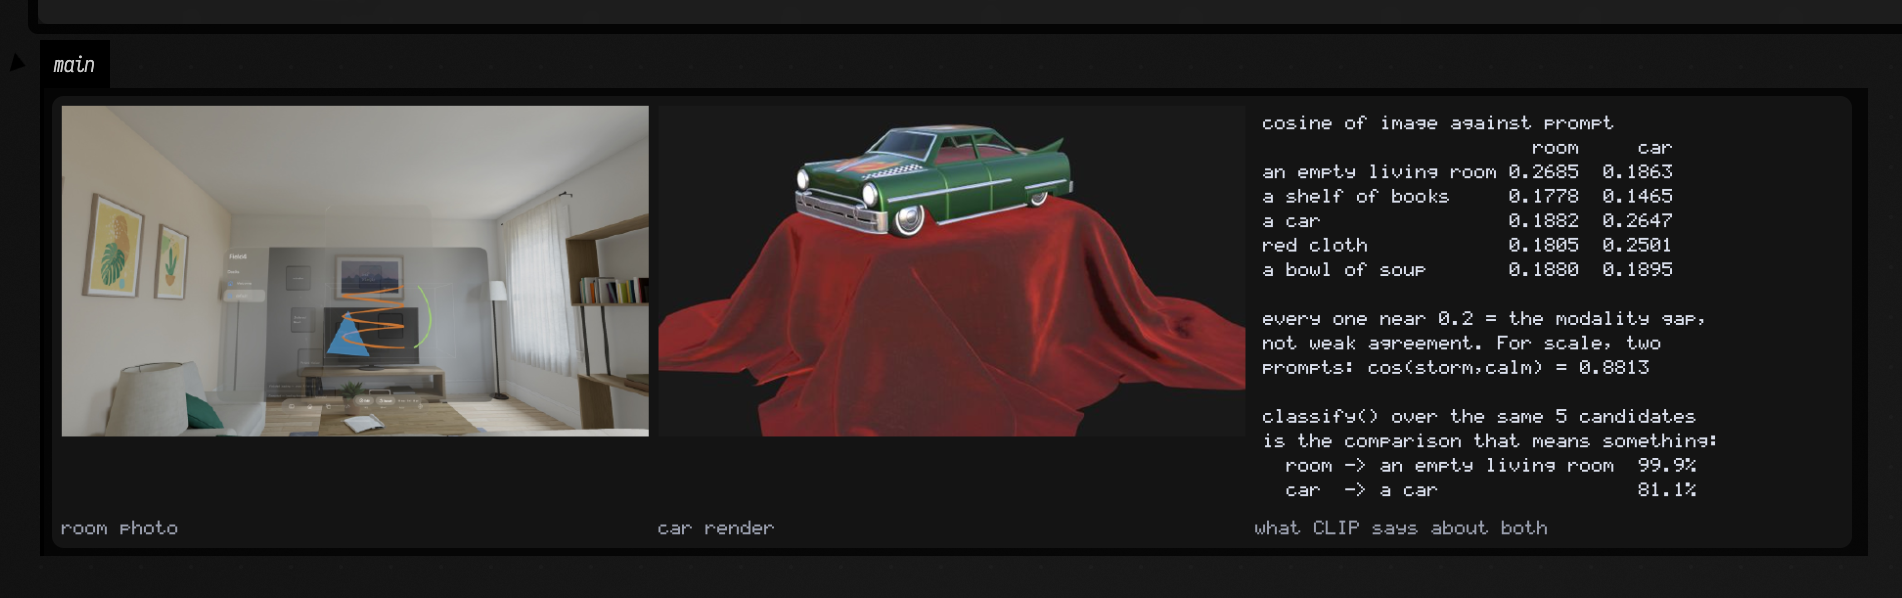
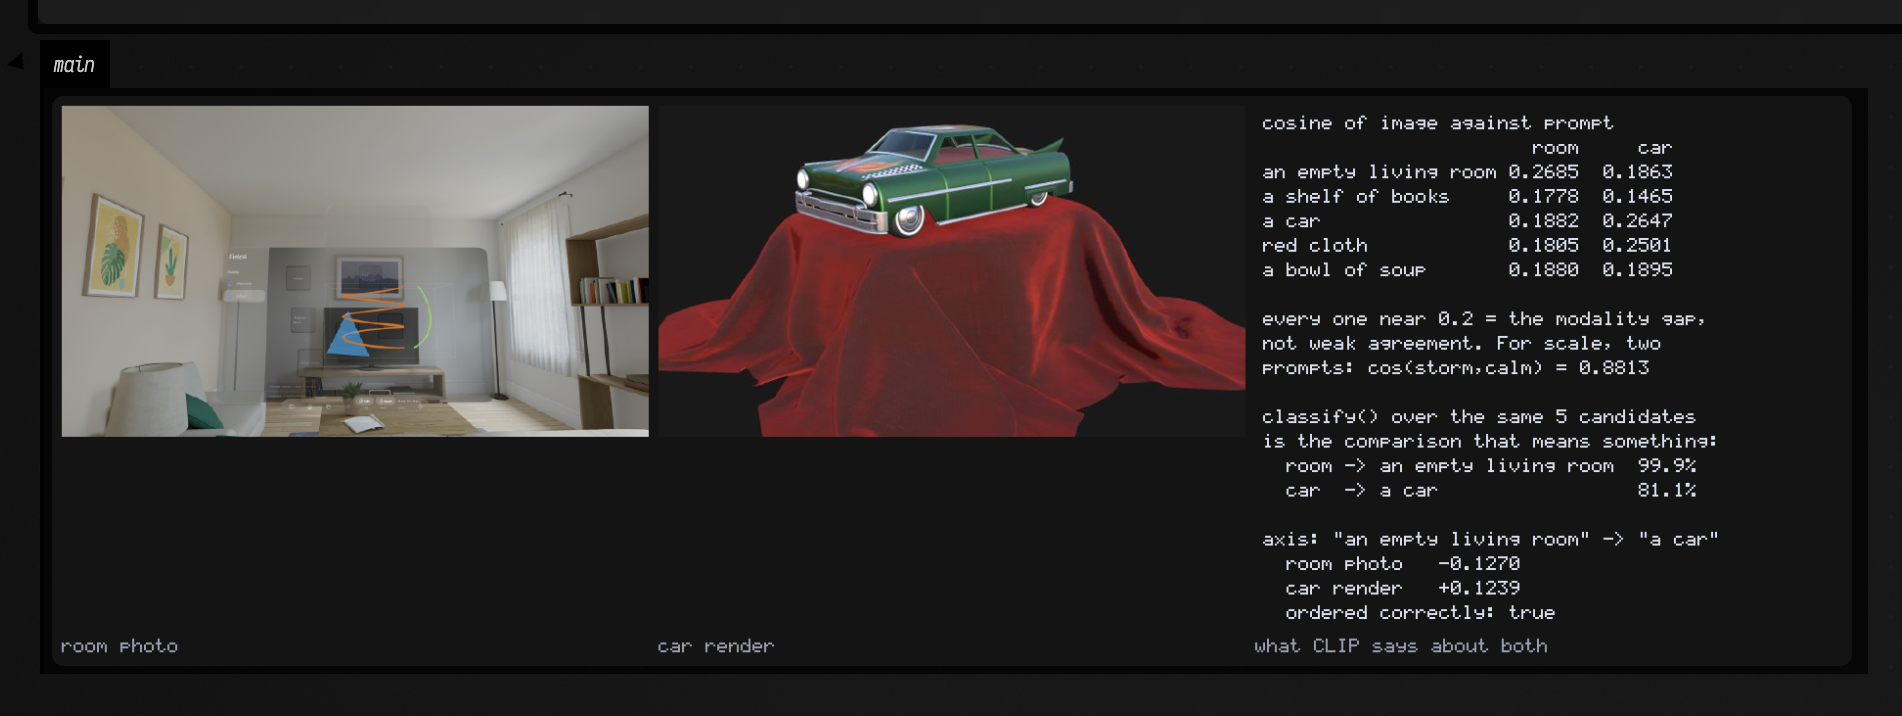
docs(onnx): census which code on this page has run, and shrink the gap
Prompted by the invented `0.94f` removed in bd202831c. Fixing that one number was
not the finding; the finding is that the page contains blocks nothing executes, and
nobody had counted them. So: count them, publish the count, and close what can honestly
be closed.

The census, now a section in the page:

  Kotlin executed by a docs-capture fence   2 blocks, 112 lines
  Kotlin executed by nothing                3 blocks,  19 lines
  shell commands, both run by hand           2 blocks,   4 lines

Blocks are fenced blocks in onnx.md; the Kotlin ones are counted whole, imports
included, because an import that no longer resolves is exactly the rot being measured.
Lines are non-blank, excluding the ::: markers. The page states the denominator rather
than leaving it to be inferred, and cross-checks: a script derives those six numbers
from the markdown and they match the table.

One block promoted from prose to executed. The semantic-axis snippet
(`clipEncode("calm") axisTo clipEncode("storm")`, then `.project`) was two illustrative
lines with an undefined `frame`. It is now computed inside the CLIP capture fence on the
two images that were already there, along the axis "an empty living room" -> "a car",
and the figure carries the result: room -0.1270, car +0.1239, and an explicit
"ordered correctly: true" so the claim is checked in the image rather than eyeballed by
the reader. The standalone snippet is deleted. Kotlin blocks 6 -> 5, unexecuted 4 -> 3.
[…]

diff --git a/public/docs/onnx.md b/public/docs/onnx.md
@@ -28,6 +28,11 @@ val prompts = ClipText.encodeAll(listOf("an empty room", "a person at a desk"))
 ClipImage().encode(rgbaBytes, 640, 480).best(prompts)   // the better-matching label, and its share
 ```
 
+!!! info "Orientation only — `rgbaBytes` is not defined, so nothing runs this block"
+    Every call in it is exercised by `OnnxSmokeTest` / `ClipSmokeTest`, but *this text* is not
+    compiled by anything. See [which code on this page has actually run](#which-code-on-this-page-has-actually-run)
+    — it matters, and it is the gap an invented number once slipped through.
+
 ## The one idea that makes this live-codeable
 
 Session construction is the *expensive* half of ONNX — the graph is parsed, fused and specialised for
@@ -48,6 +53,10 @@ val loaded = OnnxRuntime.session(spec)
 // NOT cached — this rebuilds on every keystroke, and it is the one mistake to avoid.
 val mine = OnnxRuntime.env.createSession(path, options)
 ```
+
+*Not executed, and half of it must never be: the second line is an anti-example. The first is
+exercised by `OnnxSmokeTest.testSessionIsCached`, which asserts that two calls return the identical
+`OrtSession`.*
 
 The cache key is a `SessionSpec`: the model file, the provider, and the two thread counts. Thread
 pools are baked in at construction, so two specs differing only in `intraOpThreads` really are
@@ -193,6 +202,14 @@ depth.submit(webcam.frameBuffer, 640, 480)   // returns immediately
 if (depth.consume()) tex.recordUpload(commandBuffer)
 ```
 
+!!! info "This one genuinely cannot run here — it needs a Vulkan device and a webcam"
+    The headless docs runner has neither, so **the `StreamingTexture` and `recordUpload` lines are the
+    only code on this page that nothing in the repository checks**. The ONNX half is covered:
+    `OnnxSmokeTest.testWorkerPublishesAFrame` drives `DepthAnythingWorker` through `submit` and
+    `consume` end to end, and `testFp16BufferMatchesVulkanStride` asserts that `depthFp16`'s size is
+    exactly what `ImageData` computes for `VK_FORMAT_R16_SFLOAT` — which is the seam this snippet
+    depends on, checked without a GPU.
+
 Two design choices worth knowing, because both are the opposite of the obvious:
 
 - **Frames are dropped, not queued.** `submit` overwrites anything not yet picked up. A queue would
@@ -248,6 +265,13 @@ val carVec = encoder.encode(toRgba8(car), car.width, car.height)
 
 // A text-text cosine for scale, so the modality gap below is visible rather than asserted.
 val textText = clipEncode("storm").cosine(clipEncode("calm"))
+
+// A semantic axis: the unit direction from one prompt towards another. Projecting an image onto it
+// is a continuous knob whose units are meaning rather than pixels. What matters is not the absolute
+// value — same modality gap — but that the two images order correctly along it.
+val axis = text.getValue("an empty living room") axisTo text.getValue("a car")
+val roomOnAxis = roomVec.project(axis)
+val carOnAxis = carVec.project(axis)
 :::fold draw the numbers into the figure, because a box capture shows the output area, not stdout
 val rows = buildList {
     add("cosine of image against prompt")
@@ -264,8 +288,13 @@ val rows = buildList {
     add("is the comparison that means something:")
     add("  room -> %-20s %5.1f%%".format(roomVec.best(text)!!.first, roomVec.best(text)!!.second * 100))
     add("  car  -> %-20s %5.1f%%".format(carVec.best(text)!!.first, carVec.best(text)!!.second * 100))
+    add("")
+    add("axis: \"an empty living room\" -> \"a car\"")
+    add("  room photo   %+.4f".format(roomOnAxis))
+    add("  car render   %+.4f".format(carOnAxis))
+    add("  ordered correctly: %s".format(carOnAxis > roomOnAxis))
 }
-var table = Img.filled(600, 420, 3, 0.08f)
+var table = Img.filled(600, 540, 3, 0.08f)
 rows.forEachIndexed { i, line -> table = table.withLabel(line, 8, 10 + i * 25, 2) }
 
 showImgGrid(
@@ -313,16 +342,17 @@ other* and returns probabilities that sum to 1, most likely first. `best()` is i
 
 The third thing CLIP offers is the one nothing else does. The difference of two prompt embeddings is a
 *direction*, and projecting a frame onto it is a continuous parameter that tracks a semantic axis
-rather than a pixel statistic:
+rather than a pixel statistic. Two lines — `a axisTo b`, then `.project(axis)` — which is why they are
+not shown here as a snippet: they are executed in the figure above, on the axis from
+`"an empty living room"` towards `"a car"`, and its last three rows are the two projections and the
+check that they order correctly.
 
-```diffstatic {data-lang=kotlin}
-val weather = clipEncode("calm") axisTo clipEncode("storm")   // a unit direction
-val howStormy = frame.project(weather)                        // a knob, in units of meaning
-```
-
-Expect a small number near zero and watch how it *moves*; its absolute value is subject to the same
-modality gap as everything else. `ClipVector.mean(...)` averages and renormalises several prompts,
-which is the standard prompt-ensemble trick and one CLIP responds well to.
+The two projections come out small and on opposite sides of zero, which is what to expect — the same
+modality gap applies to a projection as to a cosine, so the magnitude is not a score. The signal is
+that the car render sits *further along* the axis than the room photograph, which the figure computes
+and states outright rather than asking you to eyeball it. For a live input the useful thing is not the
+value but how it *moves*. `ClipVector.mean(...)` averages and renormalises several prompts, which is
+the standard prompt-ensemble trick and one CLIP responds well to.
 
 The rest of `ClipVector` is small and pure: `plus`/`minus`/`times` (deliberately not renormalised,
 because the length of a difference is meaningful), `dot`, `cosine`, `normalized`, and
@@ -441,6 +471,45 @@ computer screen" at 41.7%, and puts "a person sitting at a desk" at 0.4% — cor
 nobody in the picture. It also guards against the failure that matters: if the decode produces an
 all-black buffer, every number below would still be produced and would still look plausible, so it
 checks mean luma and fails instead.
+
+## Which code on this page has actually run
+
+Documentation rots in a specific way: a snippet nobody executes drifts from the API it describes, and
+looks exactly like one that works. This page had that bug during drafting — an orientation snippet
+carried a confident `0.94f` that had never been computed. So here is the census, rather than an
+assurance.
+
+| bucket | blocks | non-blank lines |
+|---|---|---|
+| Kotlin executed by a docs-capture fence, every build | **2** | **112** |
+| Kotlin executed by nothing | 3 | 19 |
+| shell commands, both run by hand for this page | 2 | 4 |
+
+**What the denominator counts.** "Blocks" means fenced code blocks in `onnx.md`; the five Kotlin ones
+are counted whole, imports and all, because an import that does not resolve is exactly the kind of rot
+this is measuring. Lines are non-blank lines excluding the `:::static` / `:::fold` markers. The two
+capture fences are counted as executed because the docs build *runs them and screenshots the result* —
+if either stopped compiling, the build would fail rather than reuse a stale PNG, which
+`docs_capture_audit.py` re-verifies by re-deriving both from source twice.
+
+**What the three remaining blocks are, and what stands behind each:**
+
+| block | why it is not executed | what does cover it |
+|---|---|---|
+| the orientation snippet | `rgbaBytes` is deliberately undefined | every call in it, via both smokes |
+| the session-cache do/don't | half of it is an anti-example that *must* not run | `OnnxSmokeTest.testSessionIsCached` |
+| the worker + `StreamingTexture` | needs a Vulkan device and a webcam | the ONNX half, via `testWorkerPublishesAFrame`; the buffer stride, via `testFp16BufferMatchesVulkanStride` |
+
+**What would make the covered bucket full for the wrong reason.** If "covered" were allowed to mean
+"the API this snippet calls is asserted somewhere", all five blocks would count as covered and the
+number would be worthless — because that is *already true today*, and it is precisely the condition
+under which the invented `0.94f` survived review. Asserting `ClipImage.encode` in a smoke says nothing
+about whether a page's prose about it is right. Only the two capture fences are compiled and run *as
+written*; the other three are prose that happens to be syntax-highlighted, and are marked as such
+where they appear.
+
+The honest gap, stated once: **`StreamingTexture(...)` and `recordUpload(...)` are the only lines on
+this page that nothing in this repository checks.**
 
 ## The `clip()` macro that was built, and then removed
 
